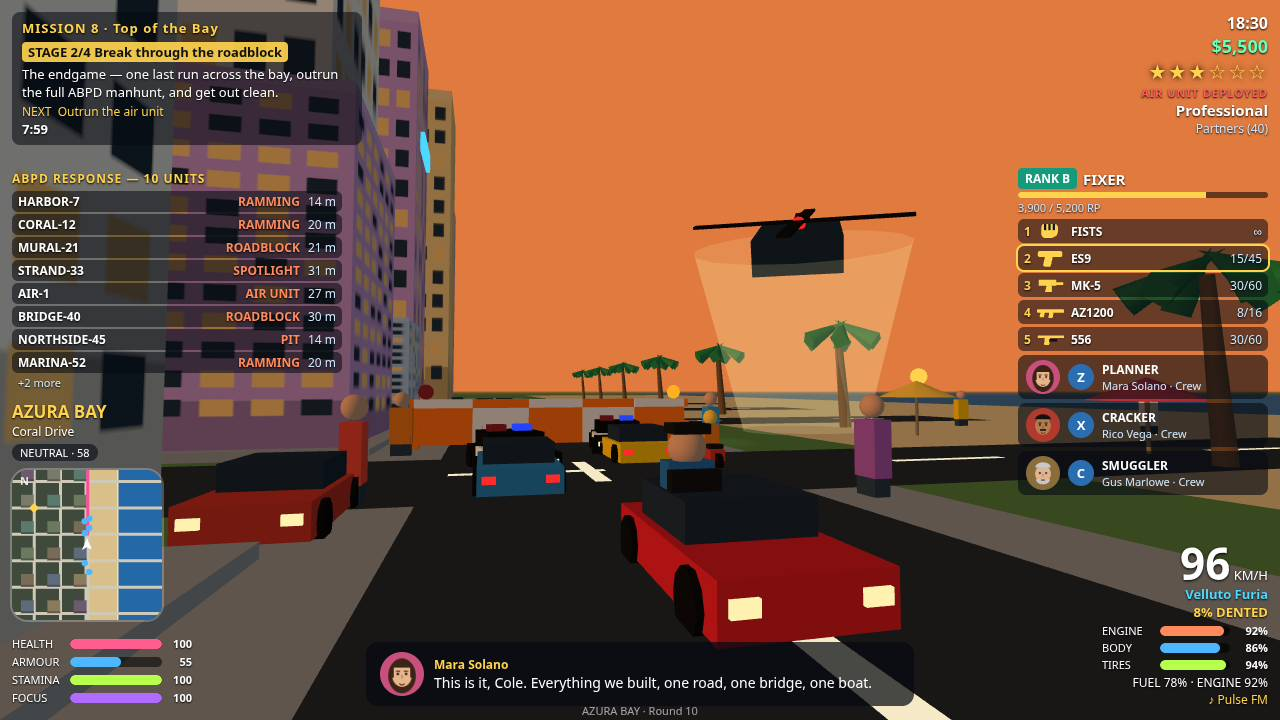
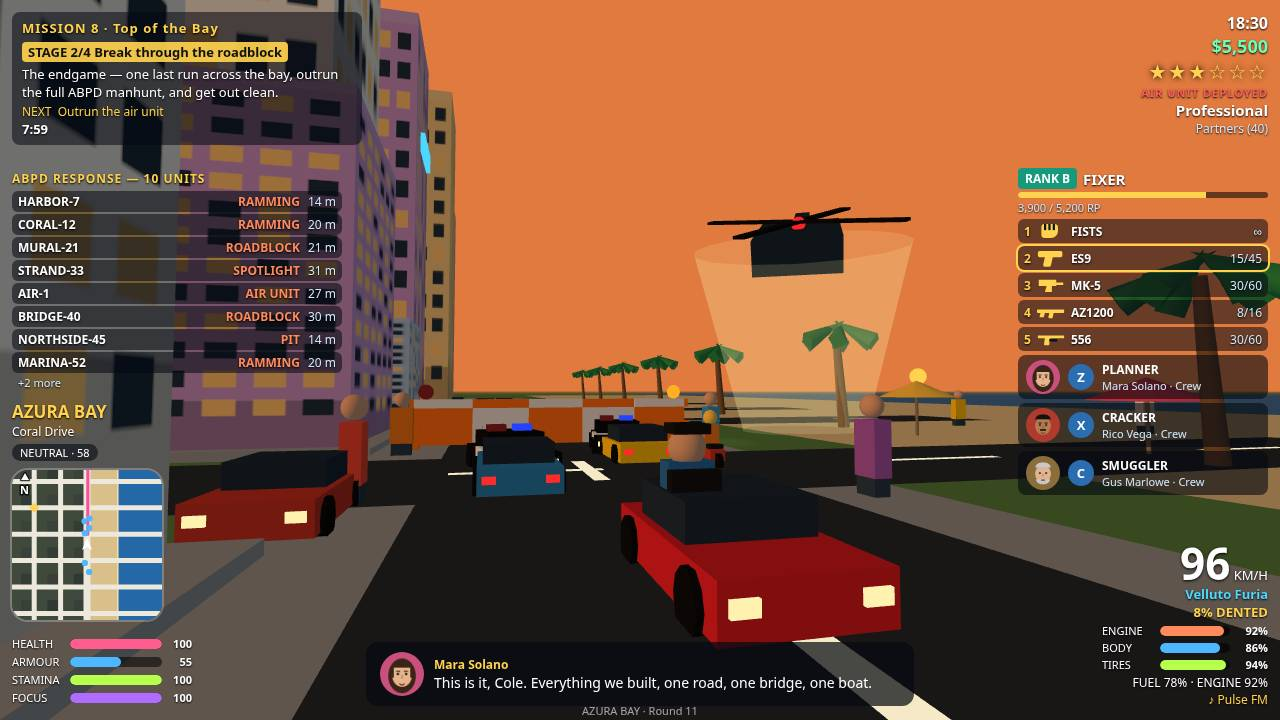
Round 11: minimap roads on top, wider/brighter, darker blocks, north indicator

diff --git a/game/src/hud.js b/game/src/hud.js
@@ -329,10 +329,11 @@ export function setBuildTag(el, tag) {
 }
 
 // Minimap: player-centred, zoomed (1.6x) open-world-style top-down view.
-// BLUE sea east of the beach, light-brown beach sand, roads drawn as LINES
-// (avenues + streets from the city road grid), varied-colour city blocks,
-// clear coastline. Markers on top: player = white arrow centred, mission =
-// gold diamond, police = blue dots, pink GPS route following roads.
+// BLUE sea east of the beach, light-brown beach sand, dark uniform city
+// blocks, then roads drawn as wide bright LINES ON TOP of the blocks
+// (avenues + streets from the city road grid), clear coastline. Markers on
+// top: player = white arrow centred, mission = gold diamond, police =
+// blue dots, pink GPS route following roads.
 // All state coords arrive in the old minimap space (90 + world*0.55);
 // they are converted back to world coords, then re-projected centred on
 // the player: screen = centre + (world - player) * 0.55 * ZOOM.
@@ -366,28 +367,9 @@ export function drawMinimap(ctx, state) {
   ctx.lineTo(X(125), h);
   ctx.stroke();
 
-  // Roads as lines: avenues (north-south) + streets (east-west).
-  const avenues = [-90, -60, -30, 0, 30, 60, 90];
-  const streets = [-120, -90, -60, -30, 0, 30, 60, 90, 120];
-  ctx.strokeStyle = '#cfc9b8';
-  ctx.lineCap = 'round';
-  for (const ax of avenues) {
-    ctx.lineWidth = ax === 90 ? 5 : 3;
-    ctx.beginPath();
-    ctx.moveTo(X(ax), -10);
-    ctx.lineTo(X(ax), h + 10);
-    ctx.stroke();
-  }
-  for (const sz of streets) {
-    ctx.lineWidth = 3;
-    ctx.beginPath();
-    ctx.moveTo(-10, Y(sz));
-    ctx.lineTo(w + 10, Y(sz));
-    ctx.stroke();
-  }
-
-  // City blocks, varied colours, darker bottom edge.
-  const palette = ['#6b7a5e', '#7a6a58', '#5e6b7a', '#8a7a5e', '#6e5a6e', '#7a7a6a', '#5a7a6e'];
+  // City blocks FIRST (dark, uniform grey-green, low saturation, so the
+  // roads read on top of them), darker bottom edge.
+  const palette = ['#39423a', '#333d36', '#3a4038', '#2f3833', '#37403a', '#313a34', '#3c423a'];
   (state.mapBlocks || []).forEach((b, i) => {
     const bw = toWorld(b);
     const bw2 = b.w / 0.55;
@@ -401,6 +383,27 @@ export function drawMinimap(ctx, state) {
     ctx.fillStyle = 'rgba(0,0,0,0.25)';
     ctx.fillRect(sx, sy + sh - 2, sw, 2);
   });
+
+  // Roads as wide bright lines ON TOP of the blocks: avenues (north-south)
+  // + streets (east-west). Coral Drive (ax 90) is the main avenue.
+  const avenues = [-90, -60, -30, 0, 30, 60, 90];
+  const streets = [-120, -90, -60, -30, 0, 30, 60, 90, 120];
+  ctx.strokeStyle = '#ece8dc';
+  ctx.lineCap = 'round';
+  for (const ax of avenues) {
+    ctx.lineWidth = ax === 90 ? 7 : 5;
+    ctx.beginPath();
+    ctx.moveTo(X(ax), -10);
+    ctx.lineTo(X(ax), h + 10);
+    ctx.stroke();
+  }
+  for (const sz of streets) {
+    ctx.lineWidth = 5;
+    ctx.beginPath();
+    ctx.moveTo(-10, Y(sz));
+    ctx.lineTo(w + 10, Y(sz));
+    ctx.stroke();
+  }
 
   // Pink GPS route: player -> road -> marker.
   if (state.gpsRoute && state.gpsRoute.length > 1) {
@@ -446,8 +449,23 @@ export function drawMinimap(ctx, state) {
   ctx.lineTo(C - 5, C + 5);
   ctx.closePath();
   ctx.fill();
-  // North indicator.
-  ctx.fillStyle = 'rgba(255,255,255,0.85)';
+  // North indicator: "N" + small arrow, dark outline so it reads at
+  // minimap scale against the bright roads.
   ctx.font = 'bold 11px system-ui, sans-serif';
-  ctx.fillText('N', 8, 15);
+  ctx.textAlign = 'left';
+  ctx.textBaseline = 'alphabetic';
+  ctx.lineJoin = 'round';
+  ctx.strokeStyle = 'rgba(0,0,0,0.75)';
+  ctx.fillStyle = '#fff';
+  ctx.lineWidth = 2.5;
+  ctx.beginPath();
+  ctx.moveTo(13, 3);
+  ctx.lineTo(17, 10);
+  ctx.lineTo(9, 10);
+  ctx.closePath();
+  ctx.stroke();
+  ctx.fill();
+  ctx.lineWidth = 3;
+  ctx.strokeText('N', 8, 24);
+  ctx.fillText('N', 8, 24);
 }

diff --git a/game/src/config.js b/game/src/config.js
@@ -53,6 +53,6 @@ export const PLACES = {
 export const GAME = {
   title: 'AZURA BAY',
   subtitle: 'AZURA BAY open world: 91 story missions across Solmaris',
-  build: 'AZURA BAY · Round 10',
+  build: 'AZURA BAY · Round 11',
   chapters: 5,
 };
